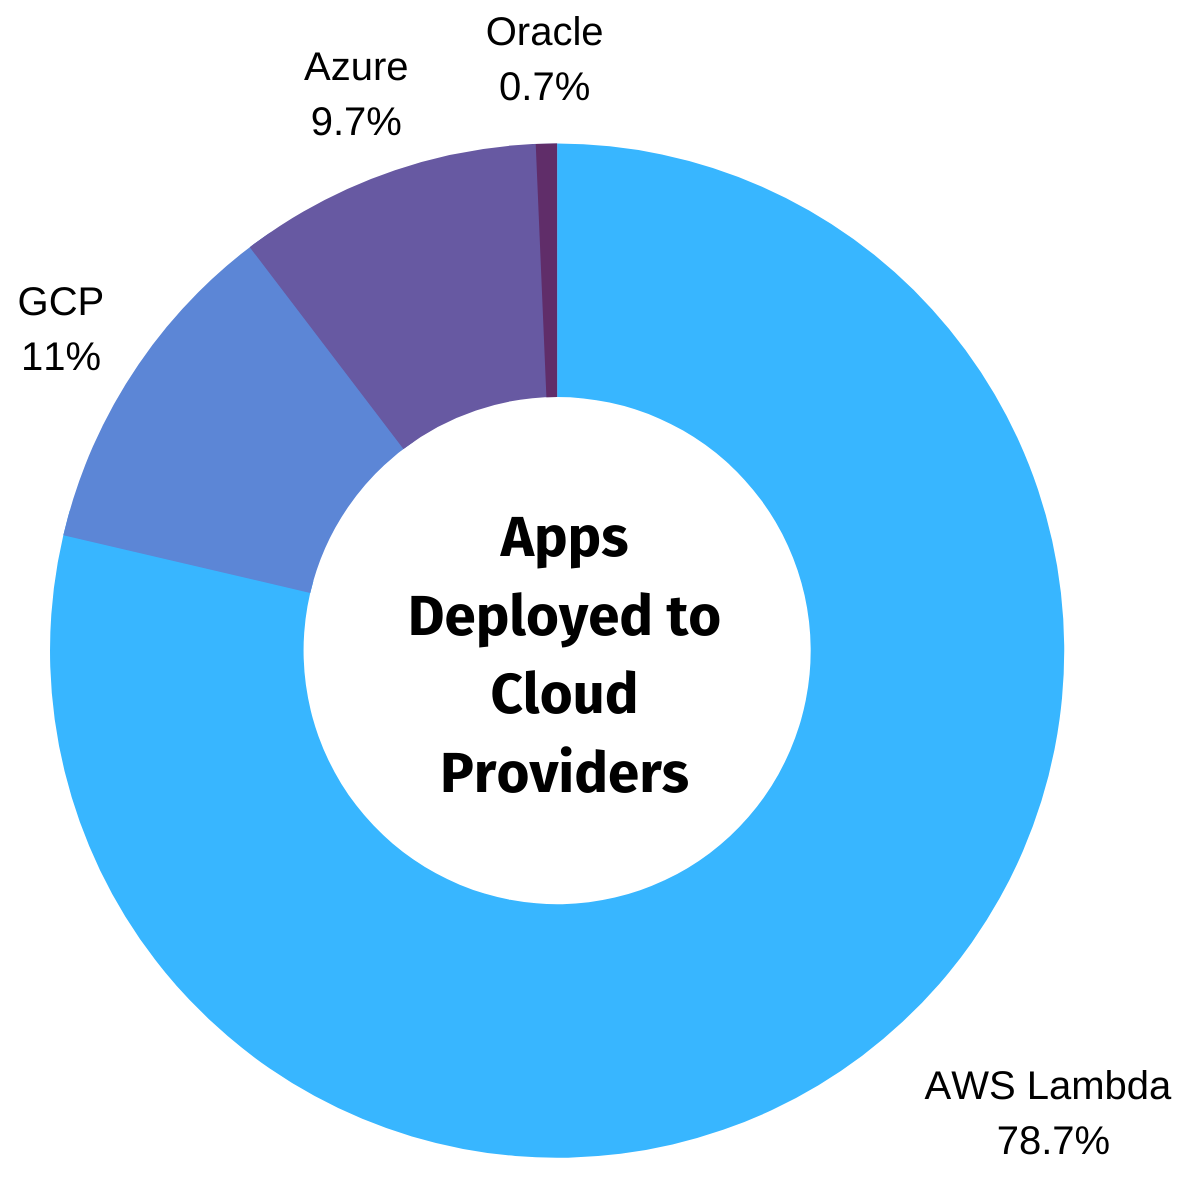
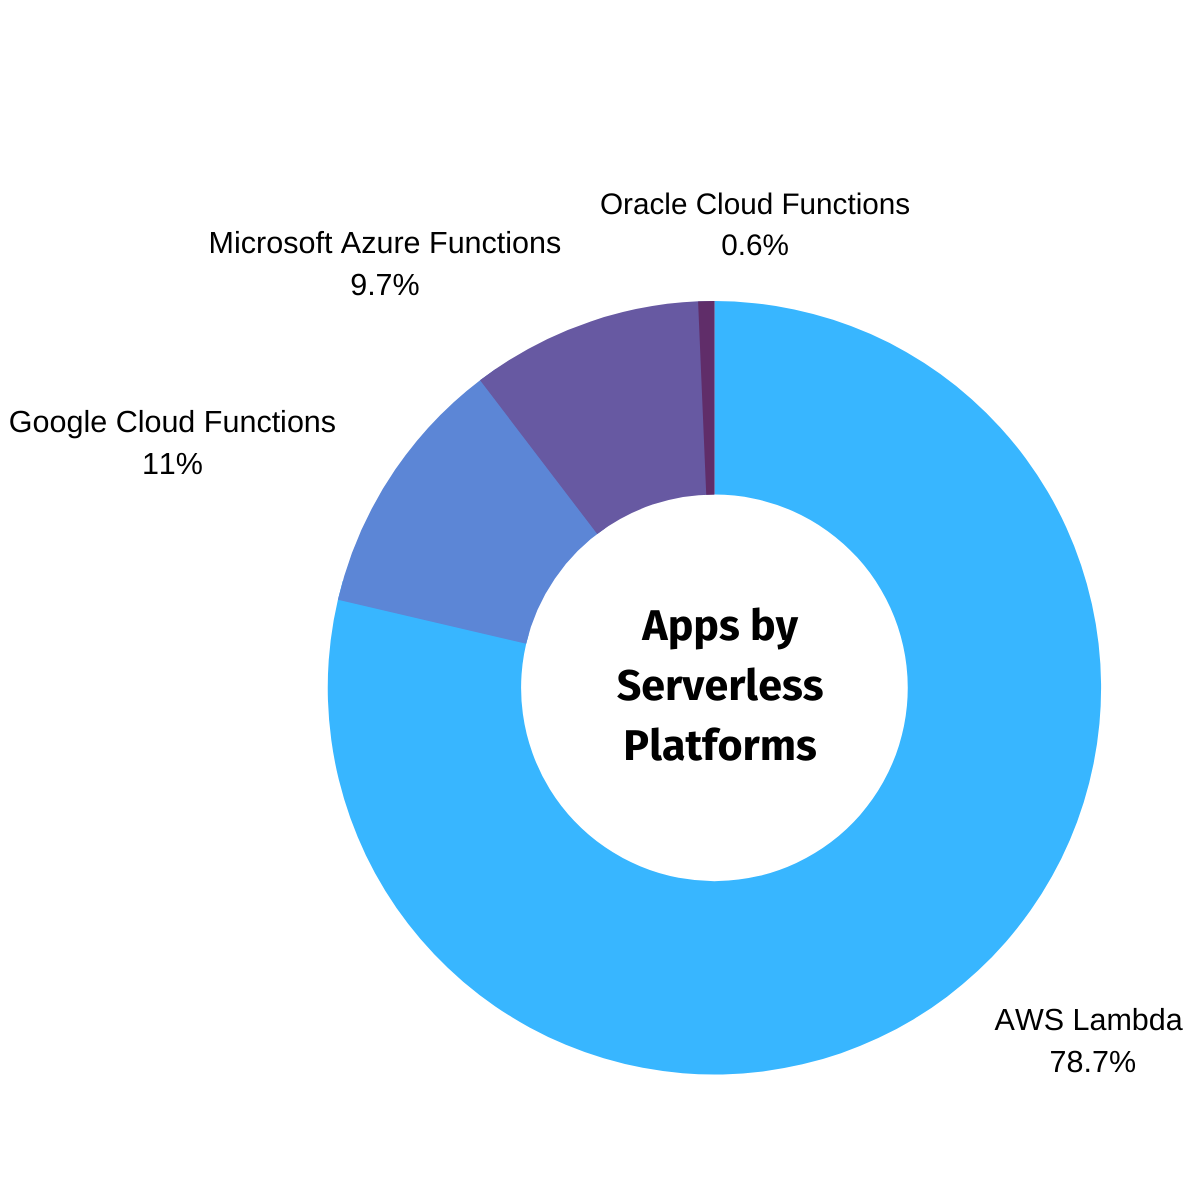
add Micronaut Launch blog post and updated images

diff --git a/posts/2020-10-30-micronaut-launch-first-6-months.md b/posts/2020-10-30-micronaut-launch-first-6-months.md
@@ -1,0 +1,54 @@
+---
+title: Micronaut Launch: A Look Back at the First Six Months
+date:  Oct 30, 2020 
+description: We look back over the first six months of Micronaut Launch.
+author: James Kleeh and Jen Wiese
+image: 2020-10-30.jpg
+---
+
+# [%title]
+
+[%author]
+
+[%date] 
+
+Tags: #launch
+
+Back in April with the release of Micronaut 2.0 M3, we went live with a brand new implementation of the Micronaut command line interface (CLI) and [Micronaut Launch](https://micronaut.io/launch/), an online tool for creating Micronaut applications. Micronaut Launch features a core written in Micronaut itself and a [micronaut-cli module that targets the user's command line](https://github.com/micronaut-projects/micronaut-starter/tree/master/starter-cli) and uses [PicoCLI](https://picocli.info/). 
+
+Micronaut Launch has been helping you get your Micronaut apps off the ground for six months now, and we've found the data related to its use pretty interesting.
+
+So, to begin, a total of 21,367 apps have been created using Micronaut Launch since its introduction on April 30th! That's about 3,561 apps a month and approximately 116 apps per day!
+
+Currently, Micronaut supports JDK 8 through JDK 15. As you can see, a vast majority of you are building your Micronaut applications with JDK 11, which is the default option in the launch website.
+
+![JDKs](2020-10-30-img01.png)
+
+Micronaut Launch provides maximum flexibility to run your own version of Launch for internal teams and choose the platform (serverless or not) that best suits your needs. As a testament to Micronaut 2.0's flexibility, you can take the same application and run it across a variety of serverless platforms ([AWS Lambda](https://aws.amazon.com/lambda/), [Google Cloud Functions](https://cloud.google.com/functions), [Microsoft Azure Functions](https://azure.microsoft.com/en-us/services/functions/), and [Oracle Cloud Functions](https://www.oracle.com/cloud-native/functions/)). You can also build a regular [Netty](https://github.com/micronaut-projects/micronaut-starter/tree/master/starter-web-netty) or Servlet application from the same codebase.
+
+Below you can see which cloud deployment platforms are configured most often. AWS Lambda is the hands-down favorite.
+
+![Cloud Providers](2020-10-30-img02.png)
+
+The Micronaut Launch UI also includes support for a ton of popular features. Of all the features available, the two selected most often are [Micronaut Data](https://micronaut-projects.github.io/micronaut-data/latest/guide/) and [Micronaut Security](https://micronaut-projects.github.io/micronaut-security/latest/guide/). 
+
+Of the build tools available through Micronaut Launch, Gradle shows 2:1 more popular than Maven. Gradle is the default build tool on the launch website.
+
+![Build Tools](2020-10-30-img03.png)
+
+As for test frameworks, JUnit is preferred by more than three quarters of users.
+
+![Test Frameworks](2020-10-30-img04.png)
+
+Finally, Micronaut apps can currently be built using Java, Kotlin, and Groovy (with Scala on the roadmap!). More than half of you prefer Java. Both Java and JUnit are the default options in the launch website.
+
+![Languages](2020-10-30-img05.png)
+
+Micronaut Launch is a fantastic example of modern application development using Micronaut. The launch application itself is a [GraalVM Native Image](https://www.graalvm.org/reference-manual/native-image/) deployed as a serverless function. The new CLI build pipeline creates GraalVM native images for Linux, macOS, and Windows. The native images are then published to SDKMAN and other package managers to make installation easy. GraalVM has changed the JVM landscape for the better, and we are happy to benefit from and contribute to its success.
+
+Micronaut Launch has also given us more insight into the features the Micronaut community finds most valuable and would like to see added in the future. A big thanks to everyone who has submitted issues to the launch repo to request new features, report bugs, and provide valuable feedback. 
+
+Keep an eye out for Kotlin DSL for Gradle support, coming in November!
+
+[Let us know what you think about Micronaut Launch!](https://github.com/micronaut-projects/micronaut-starter/issues)
+
